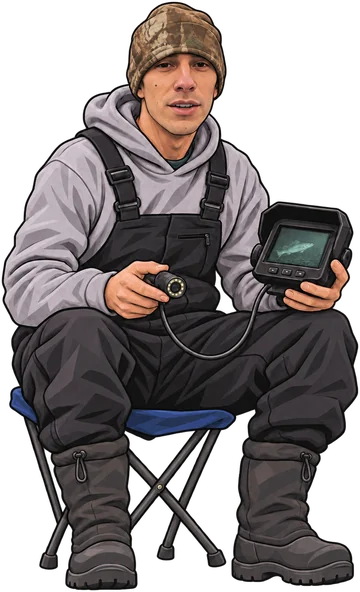
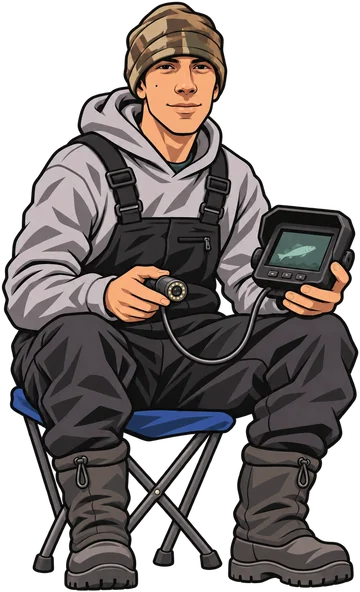
Redraw Bryan’s cutouts with consistent ink and shading

diff --git a/index.html b/index.html
@@ -64,7 +64,7 @@
           <p>Come along for summer kayak trips, days on the ice, and a look at what happens below the surface. Sometimes Bryan’s kids join him, too.</p>
           <a class="button channel-link" href="https://www.youtube.com/@BryanProkuski">Watch on YouTube <span aria-hidden="true">↗</span></a>
         </div>
-        <img class="channel-avatar" src="./assets/branding/bryan-walleye.webp" width="640" height="938" loading="lazy" decoding="async" alt="Illustration of Bryan kneeling with a walleye">
+        <img class="channel-avatar" src="./assets/branding/bryan-walleye.webp?v=inked" width="640" height="936" loading="lazy" decoding="async" alt="Illustration of Bryan kneeling with a walleye">
       </section>
       <div class="descent-link wrap" data-fish-overlay><a href="#ice"><svg viewBox="0 0 20 20" aria-hidden="true"><path d="M10 3v13m-5-5 5 5 5-5"/></svg>Through the hole</a></div>
     </section>
@@ -131,7 +131,7 @@
             <details class="guide guide-camera">
               <summary>
                 <span><strong>Underwater camera setup</strong><small>Bryan’s early-ice video</small></span>
-                <img class="guide-avatar" src="./assets/branding/bryan-camera.webp" width="360" height="592" alt="" loading="lazy" decoding="async">
+                <img class="guide-avatar" src="./assets/branding/bryan-camera.webp?v=inked" width="360" height="592" alt="" loading="lazy" decoding="async">
                 <svg class="chevron" viewBox="0 0 20 20" aria-hidden="true"><path d="m5 7 5 5 5-5"/></svg>
               </summary>
               <div class="guide-body">
